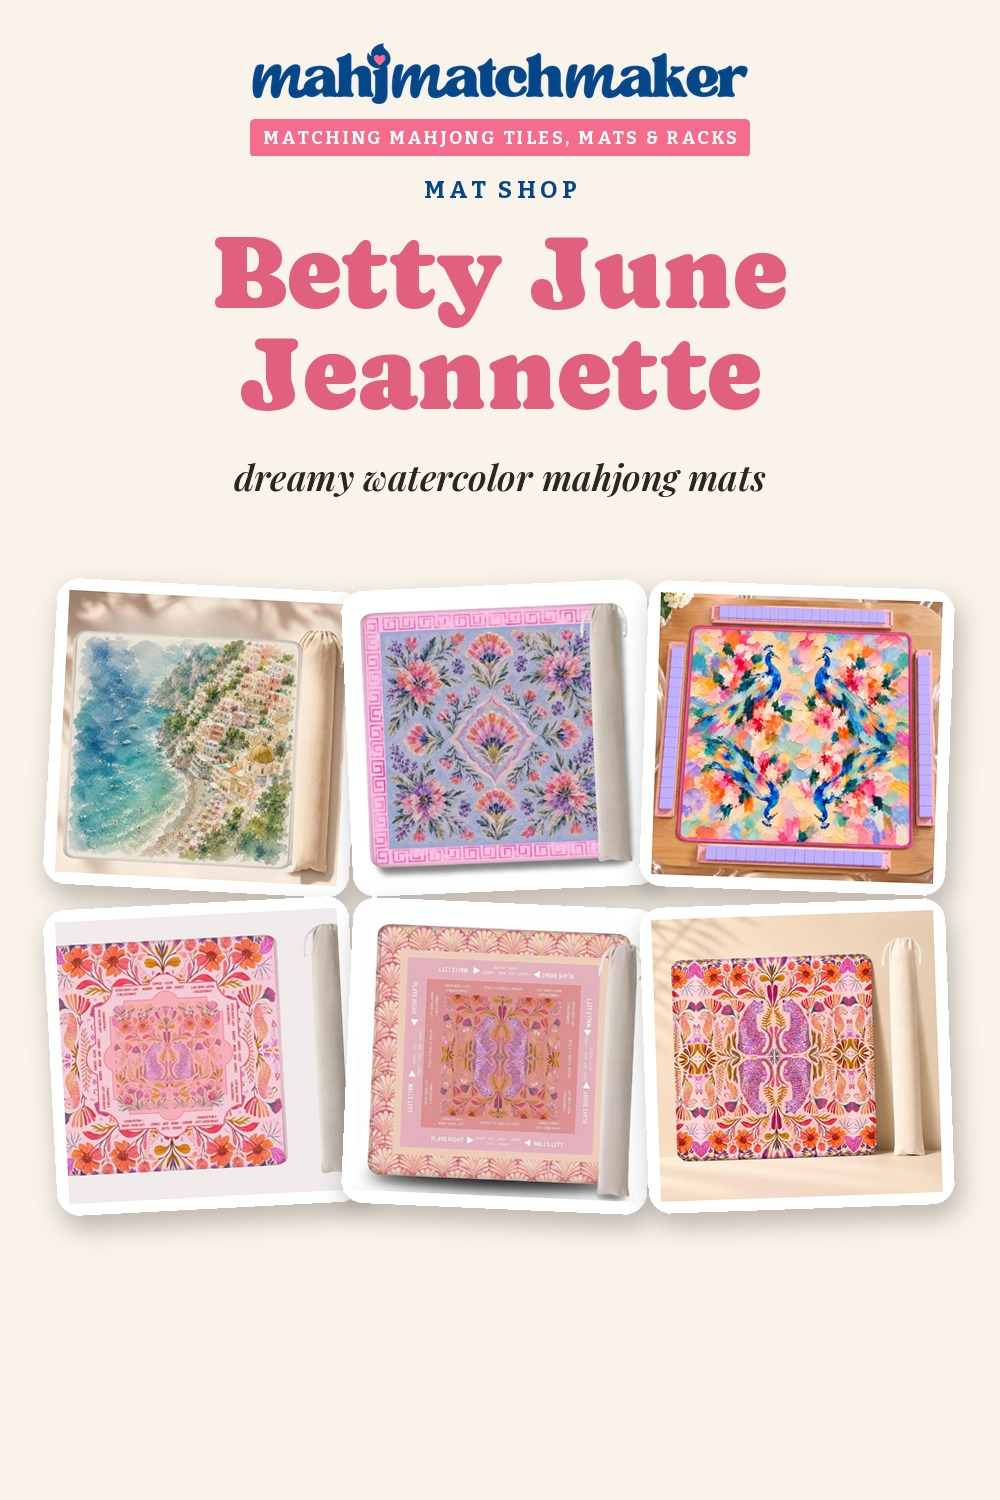
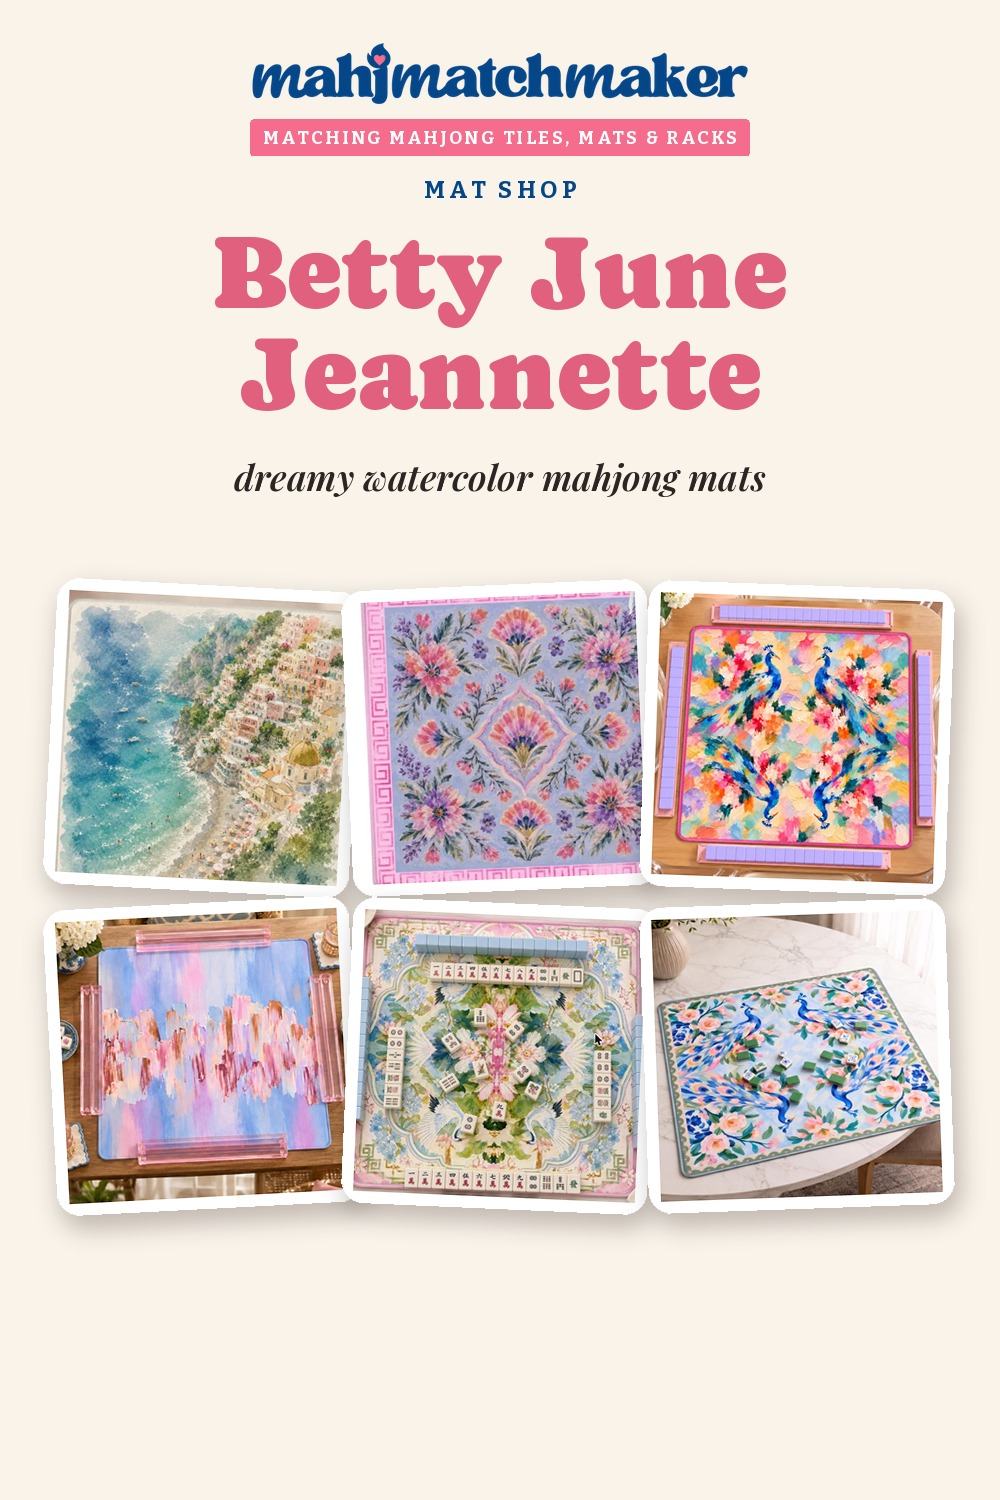
ShopMy Charleston + Tala covers: tiles and mats; Betty June options
Claude-Session: https://claude.ai/code/session_01PiwamzEftkvrKP5d7A1QEB

Changed region(s): [[0.031, 0.368, 0.961, 0.828]]

diff --git a/scripts/shopmy/make_covers.py b/scripts/shopmy/make_covers.py
@@ -21,6 +21,10 @@ def hexc(h): h = h.lstrip('#'); return tuple(int(h[i:i+2], 16) for i in (0, 2, 4
 
 # per-pin crop box (fractions l, t, r, b) to cut black bags / packaging
 CROP = {
+    96126037: (.03, .12, .82, .91),      # Positano: blow the mat up (bag + tan margin out)
+    96126853: (0, .02, .82, .98),        # Livy: mat only, bag out
+    96125859: (.13, .10, .72, .92),      # Betty Floral monogram: mat only, bag out
+    96114928: (0, 0, 1, 1),
     96620708: (0, 0, 1, .80),      # green dice candle: drop the Good Morning America badge
     97349857: (0, .09, 1, .90),      # Life is Better with Mahjong Friends sweatshirt: drop the 'seafoam' label + shop logo
     96210831: (0, 0, .845, .875),        # pink tiger moon: drop the rolled bag
@@ -89,9 +93,9 @@ COVERS = [
   [96210831, 96210535, 96212924, 96213709, 96213996, 96216016]),
  (8398036, 'mahj-and-vine', 'Mahj & Vine', 'chinoiserie mats in every color', 'mat shop', '#1f5a3a', 5,
   [95959018, 96195087, 95959071, 95959047, 96195067]),
- (8387635, 'tala-mahj', 'Tala Mahj Favorites', 'my favorite fringe mats', 'mat shop', '#c46a2b', 5,
+ (8387635, 'tala-mahj', 'Tala Mahj Favorites', 'my favorite mats and tile sets', 'mat shop', '#c46a2b', 5,
   [96067421, 96304138, 96067632, 96067718, 96067638]),
- (8398013, 'charleston-mahjong-club', 'Charleston Mahjong Club', 'club mats, bags and totes', 'brand shop', '#054689', 5,
+ (8398013, 'charleston-mahjong-club', 'Charleston Mahjong Club', 'tiles, mats, bags and totes', 'brand shop', '#054689', 5,
   [95958590, 95959013, 95959041, 95958614, 95958946]),
  (8400718, 'omm-love-shack-fancy', 'Oh My Mahjong x LoveShackFancy', 'the coquette collab, all in one place', 'shop the collab', '#e0607e', 5,
   [96227058, 96226860, 96233820, 96227272, 96227121]),

diff --git a/docs/ANSWERS.md b/docs/ANSWERS.md
@@ -200,3 +200,6 @@ Format: `- YYYY-MM-DD HH:MM · chat · topic · her answer in her words (short) 
 - 2026-10-25 ~10:20pm · Main · Partner graphics round 3 shown: 3 layouts for Mahjong Row & Co. (A 3-card fan, B phone swipe → match card, C phone in front of 2 cards); cards built by assets/social/partner-kit/gen.js (FYM colour ranking, brand filter, 3 different tile sets/mats/2 racks each, code bar replaced by "Swipe for your own match"); full brand names; phones only. Claude recommends B as the story. Waiting on her pick before building all ~40.
 - Oct 25 10:07pm: Mahjong Gifts cover DECIDED + live: Housework Never pillow, Life is Better with Mahjong Friends sweatshirt, pink Case-Mate set, Hotel Lobby matchbox duo, BAMS CLUB candle, Origami Owl tile necklace (other two pillows + Rebecca matches out).
 - Oct 25 10:08pm: Etsy Mahjong Mats cover wording DECIDED: never 'one-of-a-kind' (not all are); use 'shop small' language: 'shop small: my favorite etsy mahjong mats'. Live.
+- Oct 25 10:11pm: Charleston Mahjong Club cover = tiles + mats + bags + totes (whole line, not just mats): tagline "tiles, mats, bags and totes", picks mix tile sets (Country Club, Apres Ski, Hunt Club, photos from charlestonmahjongclub.com) with mats; bags/totes fine to leave off. Live.
+- Oct 25 10:12pm: Tala Mahj cover = mats AND tile sets: tagline "my favorite mats and tile sets". Live.
+- Oct 25 10:10pm: Betty June Jeannette cover: Kerry mat front and center (bottom middle), add Canvas Art inspired mat + Grace watercolor (the upright one), blow up Positano, no white bags. Two options sent (A/B), WAITING on her pick before upload.
